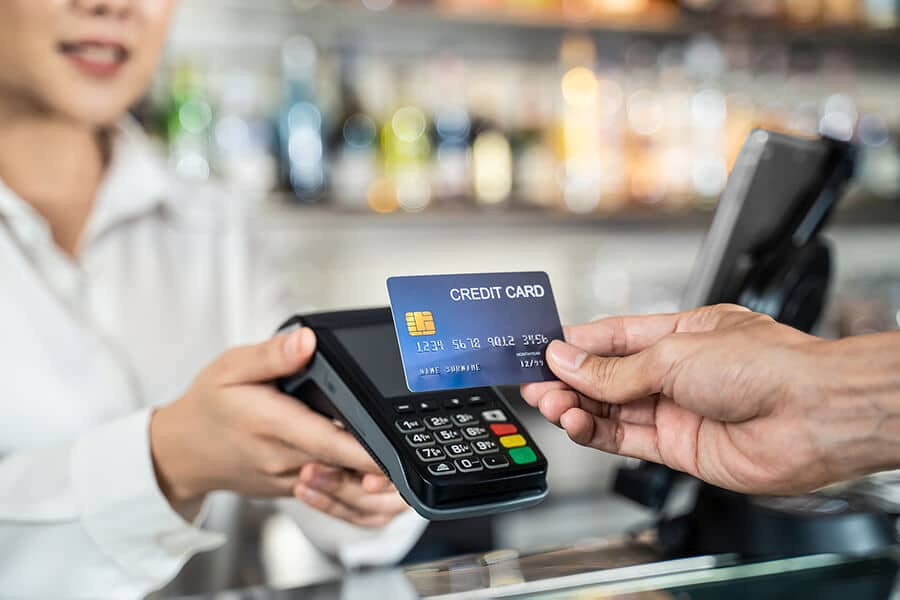
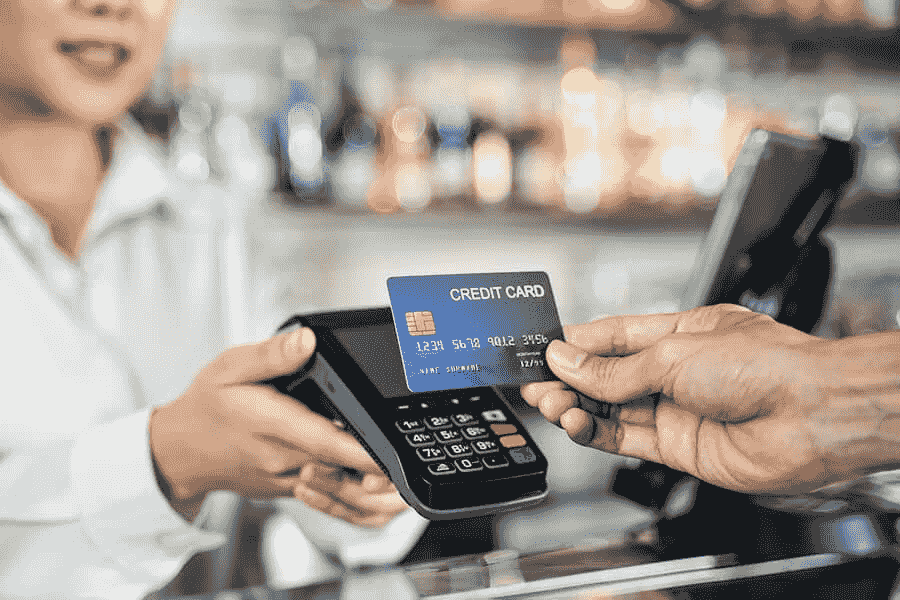
Page weight, JSON-LD and image gates, related guides on /quiz and /calculator, seo rules.json
- 8 files in public/images re-encoded with sharp to 98-189 KB (were 0.5-2.3 MB); check-image-weight.mjs
  fails the build on any public/images file over 400 KB
- check-jsonld.mjs --source (prebuild) evaluates template-literal JSON-LD the way JS does and parses it;
  --built (postbuild) parses every ld+json block in .next/server/app/**/*.html. It reproduced and now guards
  the broken FAQPage on chargeback-management-solutions (an unescaped \" inside a template literal);
  the glued Conclusion text is out of that FAQ answer
- RelatedGuides: server-rendered 5-link block on /quiz (layout) and /calculator
- src/lib/seo/rules.json: the single rules source the Hermes loop reads (banned words from voice-rules.ts)

diff --git a/src/app/(public)/insights/chargeback-management-solutions-a-merchant-s-guide-to-prevention-recovery/page.tsx b/src/app/(public)/insights/chargeback-management-solutions-a-merchant-s-guide-to-prevention-recovery/page.tsx
@@ -16,7 +16,7 @@ export const metadata: Metadata = {
 
 const html = `<script type="application/ld+json">{"@context":"https://schema.org","@type":"Article","headline":"Chargeback Management Solutions: Prevention, Recovery & Costs","description":"Evaluate chargeback management solutions for your business. Learn about pricing, trade-offs, and how to prevent and recover revenue from disputes. Optimize your payment operations.","url":"https://www.mypayadvisor.com/insights/chargeback-management-solutions-a-merchant-s-guide-to-prevention-recovery","datePublished":"2026-04-23T04:30:58.344Z","dateModified":"2026-04-23T04:30:58.344Z","author":{"@type":"Organization","@id":"https://www.mypayadvisor.com/#organization","name":"myPayAdvisor"},"reviewedBy":{"@type":"Person","@id":"https://www.mypayadvisor.com/about/barak#person","name":"Barak Bachar","jobTitle":"Global Payments Manager","url":"https://www.mypayadvisor.com/about/barak","sameAs":["https://www.linkedin.com/in/barak-bachar/"]},"publisher":{"@type":"Organization","name":"MyPayAdvisor","url":"https://www.mypayadvisor.com","logo":{"@type":"ImageObject","url":"https://www.mypayadvisor.com/logo.png"},"description":"Independent payment-processor advisory covering merchant fees, gateway comparisons, POS systems, and chargeback management."},"mainEntityOfPage":{"@type":"WebPage","@id":"https://www.mypayadvisor.com/insights/chargeback-management-solutions-a-merchant-s-guide-to-prevention-recovery"},"image":{"@type":"ImageObject","url":"https://bydwilwxiczwfarolhuu.supabase.co/storage/v1/object/public/article-images/477d713d-8ef1-432b-a7c6-c97ec83e04d5/chargeback-management-solutions-a-merchant-s-guide-to-prevention-recov-hero.png","caption":"A customer's hand tapping a smartphone on a Square card reader at a checkout counter, illustrating efficient chargeback management solutions and modern payment processing.","width":1200,"height":675},"wordCount":2628,"articleSection":"chargeback","inLanguage":"en-US","isAccessibleForFree":true,"copyrightHolder":{"@type":"Organization","name":"MyPayAdvisor","url":"https://www.mypayadvisor.com","logo":{"@type":"ImageObject","url":"https://www.mypayadvisor.com/logo.png"},"description":"Independent payment-processor advisory covering merchant fees, gateway comparisons, POS systems, and chargeback management."},"copyrightYear":2026,"keywords":"chargeback management solutions, chargeback prevention, chargeback recovery, fraud detection, dispute resolution services, merchant fees, payment processing"}</script>
 <script type="application/ld+json">{"@context":"https://schema.org","@type":"WebPage","@id":"https://www.mypayadvisor.com/insights/chargeback-management-solutions-a-merchant-s-guide-to-prevention-recovery#speakable","url":"https://www.mypayadvisor.com/insights/chargeback-management-solutions-a-merchant-s-guide-to-prevention-recovery","speakable":{"@type":"SpeakableSpecification","cssSelector":["h1","h2","h3","[data-speakable]",".article-summary"],"xpath":["/html/head/title","/html/head/meta[@name='description']/@content"]}}</script>
-<script type="application/ld+json">{"@context":"https://schema.org","@type":"FAQPage","mainEntity":[{"@type":"Question","name":"What is a chargeback and how does it differ from a refund?","acceptedAnswer":{"@type":"Answer","text":"A chargeback is a forced transaction reversal initiated by a cardholder through their issuing bank, typically due to fraud, merchant error, or dissatisfaction. Unlike a refund, which is initiated by the merchant, a chargeback bypasses the merchant entirely, incurs significant fees for the merchant, and negatively impacts their chargeback ratio with card networks. A refund is a voluntary return of funds by the merchant, usually for a returned item or service issue, and does not carry the same penalties."}},{"@type":"Question","name":"How long does the chargeback process typically take?","acceptedAnswer":{"@type":"Answer","text":"The chargeback process can be lengthy, often taking 45 to 90 days from the initial dispute to final resolution, and sometimes even longer for complex cases. The timeline involves the cardholder's bank investigating, the merchant's opportunity to represent, and the card network's arbitration if necessary. Merchants typically have 7-45 days to respond to a chargeback, depending on the card network and reason code."}},{"@type":"Question","name":"Can small businesses effectively use chargeback management solutions?","acceptedAnswer":{"@type":"Answer","text":"Yes, small businesses can and should use chargeback management solutions. While large enterprises might opt for full-service providers, small businesses can benefit significantly from more affordable options like chargeback alert services or the integrated tools offered by their payment processors. Even a few chargebacks per month can disproportionately impact a small business's profitability, making prevention and recovery tools a wise investment."}},{"@type":"Question","name":"What is \"friendly fraud\" and how do chargeback solutions address it?","acceptedAnswer":{"@type":"Answer","text":"Friendly fraud, or first-party misuse, occurs when a legitimate cardholder disputes a charge they made, often due to forgetfulness, buyer's remorse, or an intentional attempt to get goods/services for free. Chargeback solutions address friendly fraud by helping merchants gather compelling evidence (e.g., proof of delivery, IP addresses, communication logs, 3DS2 authentication data) to demonstrate the legitimacy of the transaction during the representment process, thereby increasing the chances of winning the dispute."}},{"@type":"Question","name":"What is the ideal chargeback ratio for merchants?","acceptedAnswer":{"@type":"Answer","text":"In general, the ideal chargeback ratio for merchants is typically below 0.9% of total transactions. Card networks like Visa and Mastercard monitor this ratio closely. Exceeding 0.9% can lead to increased fees, enrollment in chargeback monitoring programs, and potentially account termination. Proactive chargeback management solutions are essential for maintaining a healthy ratio and avoiding these penalties. ## Conclusion Effective <strong>chargeback management solutions</strong> are no longer a peripheral concern but a core component of sustainable merchant operations. With the increasing sophistication of fraud and the prevalence of friendly fraud, relying on manual processes is a recipe for significant financial losses and operational strain. Implementing a tailored chargeback management solution - whether it's an alert service, an automated representment platform, or a full-service provider - empowers merchants to proactively prevent disputes, efficiently recover lost revenue, and maintain a healthy relationship with payment networks. By understanding the causes of chargebacks, evaluating the diverse solutions available, and calculating the clear ROI, businesses can make informed decisions that protect their bottom line and foster long-term growth. Don't let chargebacks erode your profits; invest in the right tools to secure your transactions and optimize your payment ecosystem. For further guidance on optimizing your overall payment strategy, explore our comprehensive resources at MyPayAdvisor.com."}}]}</script>
+<script type="application/ld+json">{"@context":"https://schema.org","@type":"FAQPage","mainEntity":[{"@type":"Question","name":"What is a chargeback and how does it differ from a refund?","acceptedAnswer":{"@type":"Answer","text":"A chargeback is a forced transaction reversal initiated by a cardholder through their issuing bank, typically due to fraud, merchant error, or dissatisfaction. Unlike a refund, which is initiated by the merchant, a chargeback bypasses the merchant entirely, incurs significant fees for the merchant, and negatively impacts their chargeback ratio with card networks. A refund is a voluntary return of funds by the merchant, usually for a returned item or service issue, and does not carry the same penalties."}},{"@type":"Question","name":"How long does the chargeback process typically take?","acceptedAnswer":{"@type":"Answer","text":"The chargeback process can be lengthy, often taking 45 to 90 days from the initial dispute to final resolution, and sometimes even longer for complex cases. The timeline involves the cardholder's bank investigating, the merchant's opportunity to represent, and the card network's arbitration if necessary. Merchants typically have 7-45 days to respond to a chargeback, depending on the card network and reason code."}},{"@type":"Question","name":"Can small businesses effectively use chargeback management solutions?","acceptedAnswer":{"@type":"Answer","text":"Yes, small businesses can and should use chargeback management solutions. While large enterprises might opt for full-service providers, small businesses can benefit significantly from more affordable options like chargeback alert services or the integrated tools offered by their payment processors. Even a few chargebacks per month can disproportionately impact a small business's profitability, making prevention and recovery tools a wise investment."}},{"@type":"Question","name":"What is \\"friendly fraud\\" and how do chargeback solutions address it?","acceptedAnswer":{"@type":"Answer","text":"Friendly fraud, or first-party misuse, occurs when a legitimate cardholder disputes a charge they made, often due to forgetfulness, buyer's remorse, or an intentional attempt to get goods/services for free. Chargeback solutions address friendly fraud by helping merchants gather compelling evidence (e.g., proof of delivery, IP addresses, communication logs, 3DS2 authentication data) to demonstrate the legitimacy of the transaction during the representment process, thereby increasing the chances of winning the dispute."}},{"@type":"Question","name":"What is the ideal chargeback ratio for merchants?","acceptedAnswer":{"@type":"Answer","text":"In general, the ideal chargeback ratio for merchants is typically below 0.9% of total transactions. Card networks like Visa and Mastercard monitor this ratio closely. Exceeding 0.9% can lead to increased fees, enrollment in chargeback monitoring programs, and potentially account termination. Proactive chargeback management solutions are essential for maintaining a healthy ratio and avoiding these penalties."}}]}</script>
 <div class="article-byline" style="display:flex;flex-wrap:wrap;gap:0.75rem;align-items:center;font-size:0.875rem;color:#334155;margin:1rem 0 1.25rem;">
   <img src="/images/barak-monogram.svg" alt="Barak Bachar, Global Payments Manager at myPayAdvisor" width="40" height="40" style="width:40px;height:40px;border-radius:9999px;border:1px solid #e2e8f0;background:#f8fafc;" loading="lazy" />
   <span>Reviewed by <a href="/about/barak" rel="author" style="color:#0f172a;font-weight:600;text-decoration:none;border-bottom:1px solid #94a3b8;">Barak Bachar</a>, Global Payments Manager</span>

diff --git a/src/components/seo/RelatedGuides.tsx b/src/components/seo/RelatedGuides.tsx
@@ -1,0 +1,60 @@
+import Link from "next/link";
+
+// Server-rendered "Related guides" block for the tool pages (/quiz, /calculator).
+// Both had zero outbound internal links (2026-08-25 link-graph audit), so the
+// equity they collect from the homepage and the comparison shells stopped there.
+// Five hub links: the two cornerstones, the two section hubs, the high-risk pillar.
+// PR 2 replaces this with <RelatedLinks kind="pages"> read from seo_overrides.
+
+const GUIDES = [
+  {
+    href: "/comparisons/best-payment-processors-2026",
+    title: "Best payment processors 2026",
+    blurb: "15 U.S. processors ranked by effective rate at four volume tiers.",
+  },
+  {
+    href: "/insights/payment-processor-fees-guide",
+    title: "Payment processor fees guide",
+    blurb: "Interchange, assessments, markup: what each line on the statement means.",
+  },
+  {
+    href: "/comparisons",
+    title: "All processor comparisons",
+    blurb: "Head-to-head pricing on Stripe, Square, Helcim, PayPal and 50 more.",
+  },
+  {
+    href: "/insights",
+    title: "Insights and guides",
+    blurb: "Statement audits, negotiation playbooks, reserves, approval rates.",
+  },
+  {
+    href: "/insights/high-risk-payment-processing-guide",
+    title: "High-risk payment processing guide",
+    blurb: "Chargeback thresholds, reserves, and the processors that approve hard verticals.",
+  },
+] as const;
+
+export function RelatedGuides({ heading = "Related guides" }: { heading?: string }) {
+  return (
+    <section aria-labelledby="related-guides-heading" className="container mx-auto max-w-3xl px-4 pb-16">
+      <h2 id="related-guides-heading" className="text-2xl font-serif font-bold text-foreground mb-6">
+        {heading}
+      </h2>
+      <ul className="grid gap-4 sm:grid-cols-2">
+        {GUIDES.map((g) => (
+          <li key={g.href}>
+            <Link
+              href={g.href}
+              className="group block h-full rounded-lg border border-border p-4 transition-colors hover:border-primary"
+            >
+              <span className="block font-semibold text-foreground group-hover:text-primary">{g.title}</span>
+              <span className="mt-1 block text-sm text-muted-foreground">{g.blurb}</span>
+            </Link>
+          </li>
+        ))}
+      </ul>
+    </section>
+  );
+}
+
+export default RelatedGuides;

diff --git a/src/app/(public)/quiz/layout.tsx b/src/app/(public)/quiz/layout.tsx
@@ -1,4 +1,5 @@
 import { Metadata } from "next";
+import { RelatedGuides } from "@/components/seo/RelatedGuides";
 
 export const metadata: Metadata = {
   title: "Find Your Perfect Payment Processor - Free Quiz",
@@ -34,5 +35,12 @@ export default function QuizLayout({
 }: {
   children: React.ReactNode;
 }) {
-  return <>{children}</>;
+  // The quiz itself is a client component; the guides block below is server-rendered
+  // so crawlers get real internal links from /quiz without running the app.
+  return (
+    <>
+      {children}
+      <RelatedGuides heading="Related guides while you wait for your match" />
+    </>
+  );
 }

diff --git a/src/app/(public)/calculator/page.tsx b/src/app/(public)/calculator/page.tsx
@@ -1,6 +1,7 @@
 import { Metadata } from "next";
 import { JsonLd } from "@/components/JsonLd";
 import FeeCalculatorClient from "./FeeCalculatorClient";
+import { RelatedGuides } from "@/components/seo/RelatedGuides";
 
 // Title retargeted 2026-08-17. The head term is "credit card processing fee calculator"
 // (1,000/mo, KD 1, rankers at DR 151-293), and the old title targeted "payment processing fee
@@ -111,6 +112,7 @@ export default function CalculatorPage() {
           ))}
         </div>
       </section>
+      <RelatedGuides heading="Related guides to read with your estimate" />
     </>
   );
 }
